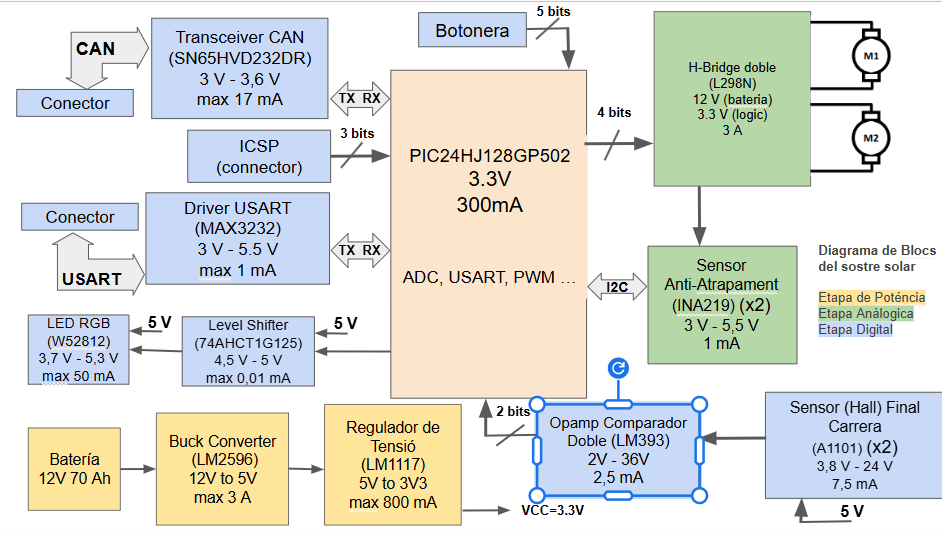
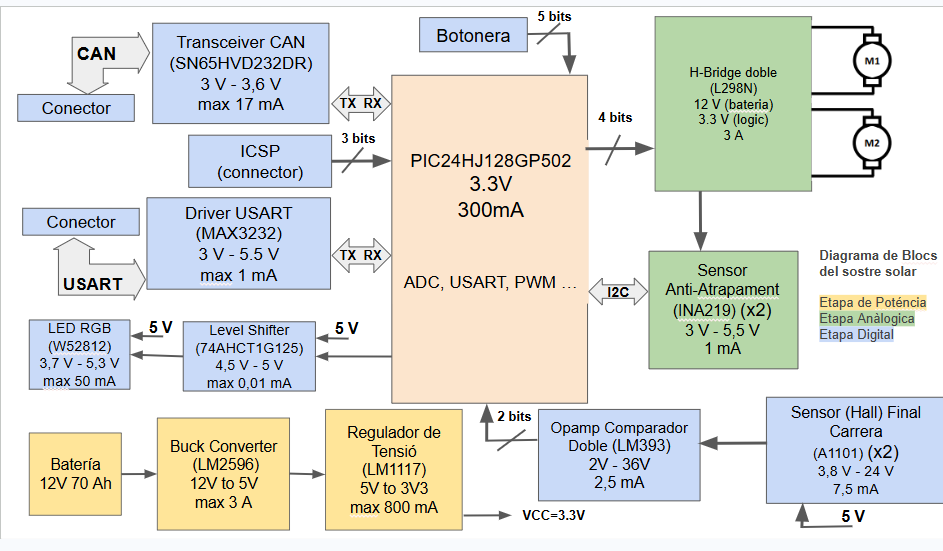
Readme definitivo, correción de fallo de escritura y ahora DB si que se ve bien

diff --git a/README.md b/README.md
@@ -79,8 +79,8 @@ I que incloguiu les següents caracteristiques:
 | 24/03/26 | Marc         | Master | versió 2 | Layout: corregeixo algunes coses    					|
 | 30/03/26 | Nabel         | Master | versió 3 | Layout: rutejat part Digital    |
 | 31/03/26 | Marc         | Master | versió 4 | Layout: treballo part potencia, H_Bridge    |
-| 08/03/26 | Marc i Nabel        | Master | versió 5 | Layout: treballem a clase i l'intentem possar a punt |
- | 15/03/26 | Marc i Nabel        | Master | versió 6 | Layout: corregim algunes coses com tema de plans i posar plans de massa digitla y power | | 27/03/26 | Nabel         | Master | versió 1 | Faig el pressupost |  								| 28/03/26 | Marc      | Master | versió 7 | Layout: acabo el Layout posant uns canvis proposat pel profesor
+| 08/04/26 | Marc i Nabel        | Master | versió 5 | Layout: treballem a clase i l'intentem possar a punt |
+ | 15/04/26 | Marc i Nabel        | Master | versió 6 | Layout: corregim algunes coses com tema de plans i posar plans de massa digitla y power |  27/04/26 | Nabel         | Master | versió 1 | Faig el pressupost |  								| 28/04/26 | Marc      | Master | versió 7 | Layout: acabo el Layout posant uns canvis proposat pel profesor
 
 
 
